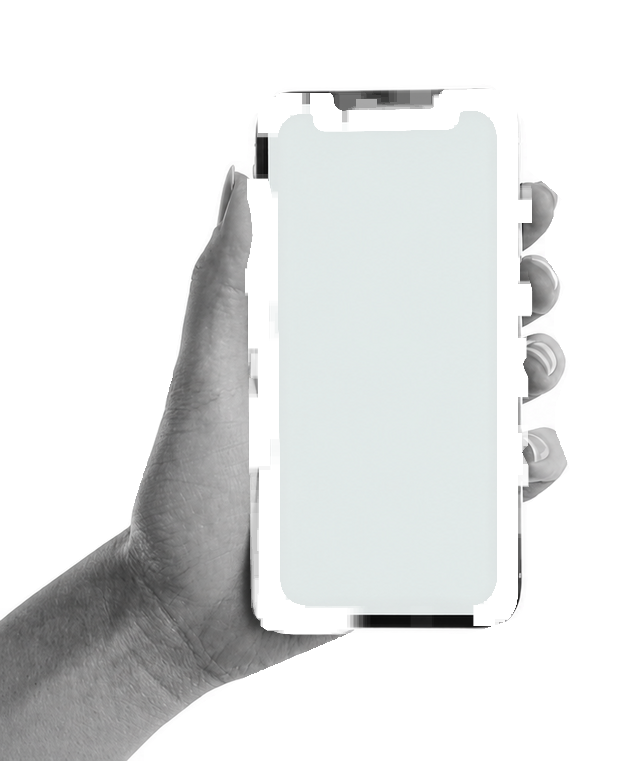
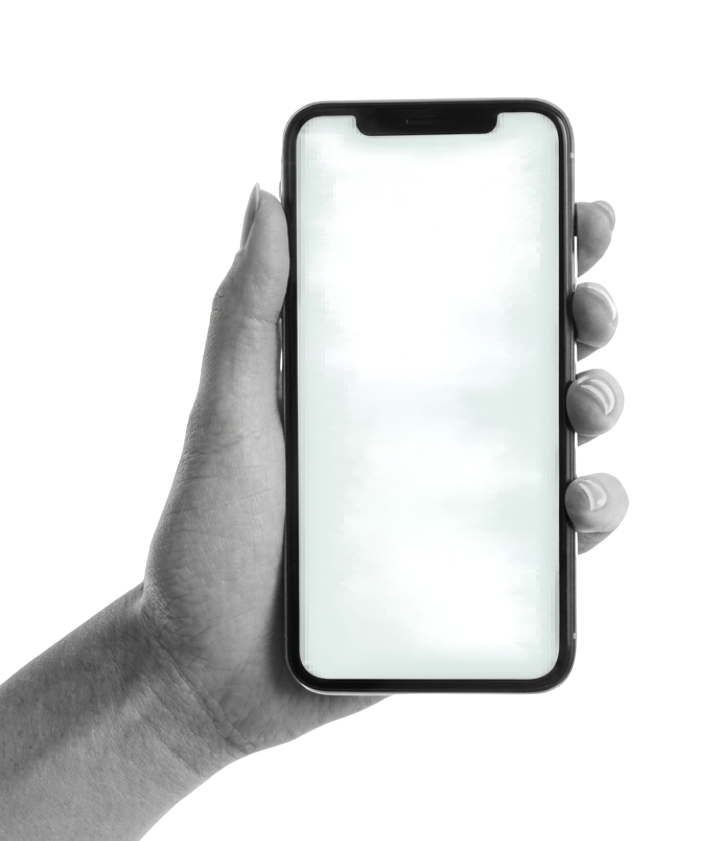
New clean hands image + fix hands shifting on category change
- Replace section 03 hands with clean transparent cutout (no baked outline)
- Fix uniform card height (min-h 680px) so phones/hands stay put when switching profession

Changed region(s): [[0.375, 0.0907, 0.875, 0.8463], [0.875, 0.5742, 0.9062, 0.6045]]

diff --git a/src/components/DentalGoogleCard.tsx b/src/components/DentalGoogleCard.tsx
@@ -77,7 +77,7 @@ export function DentalGoogleCard({
   const link = "#1a73e8";
 
   return (
-    <div className="relative w-full overflow-hidden rounded-[36px] bg-white shadow-2xl ring-1 ring-black/10">
+    <div className="relative min-h-[680px] w-full overflow-hidden rounded-[36px] bg-white shadow-2xl ring-1 ring-black/10">
       {/* Status bar mock */}
       <div className="flex items-center justify-between px-6 pt-3 pb-1 text-[11px] font-semibold text-[#202124]">
         <span>9:41</span>
